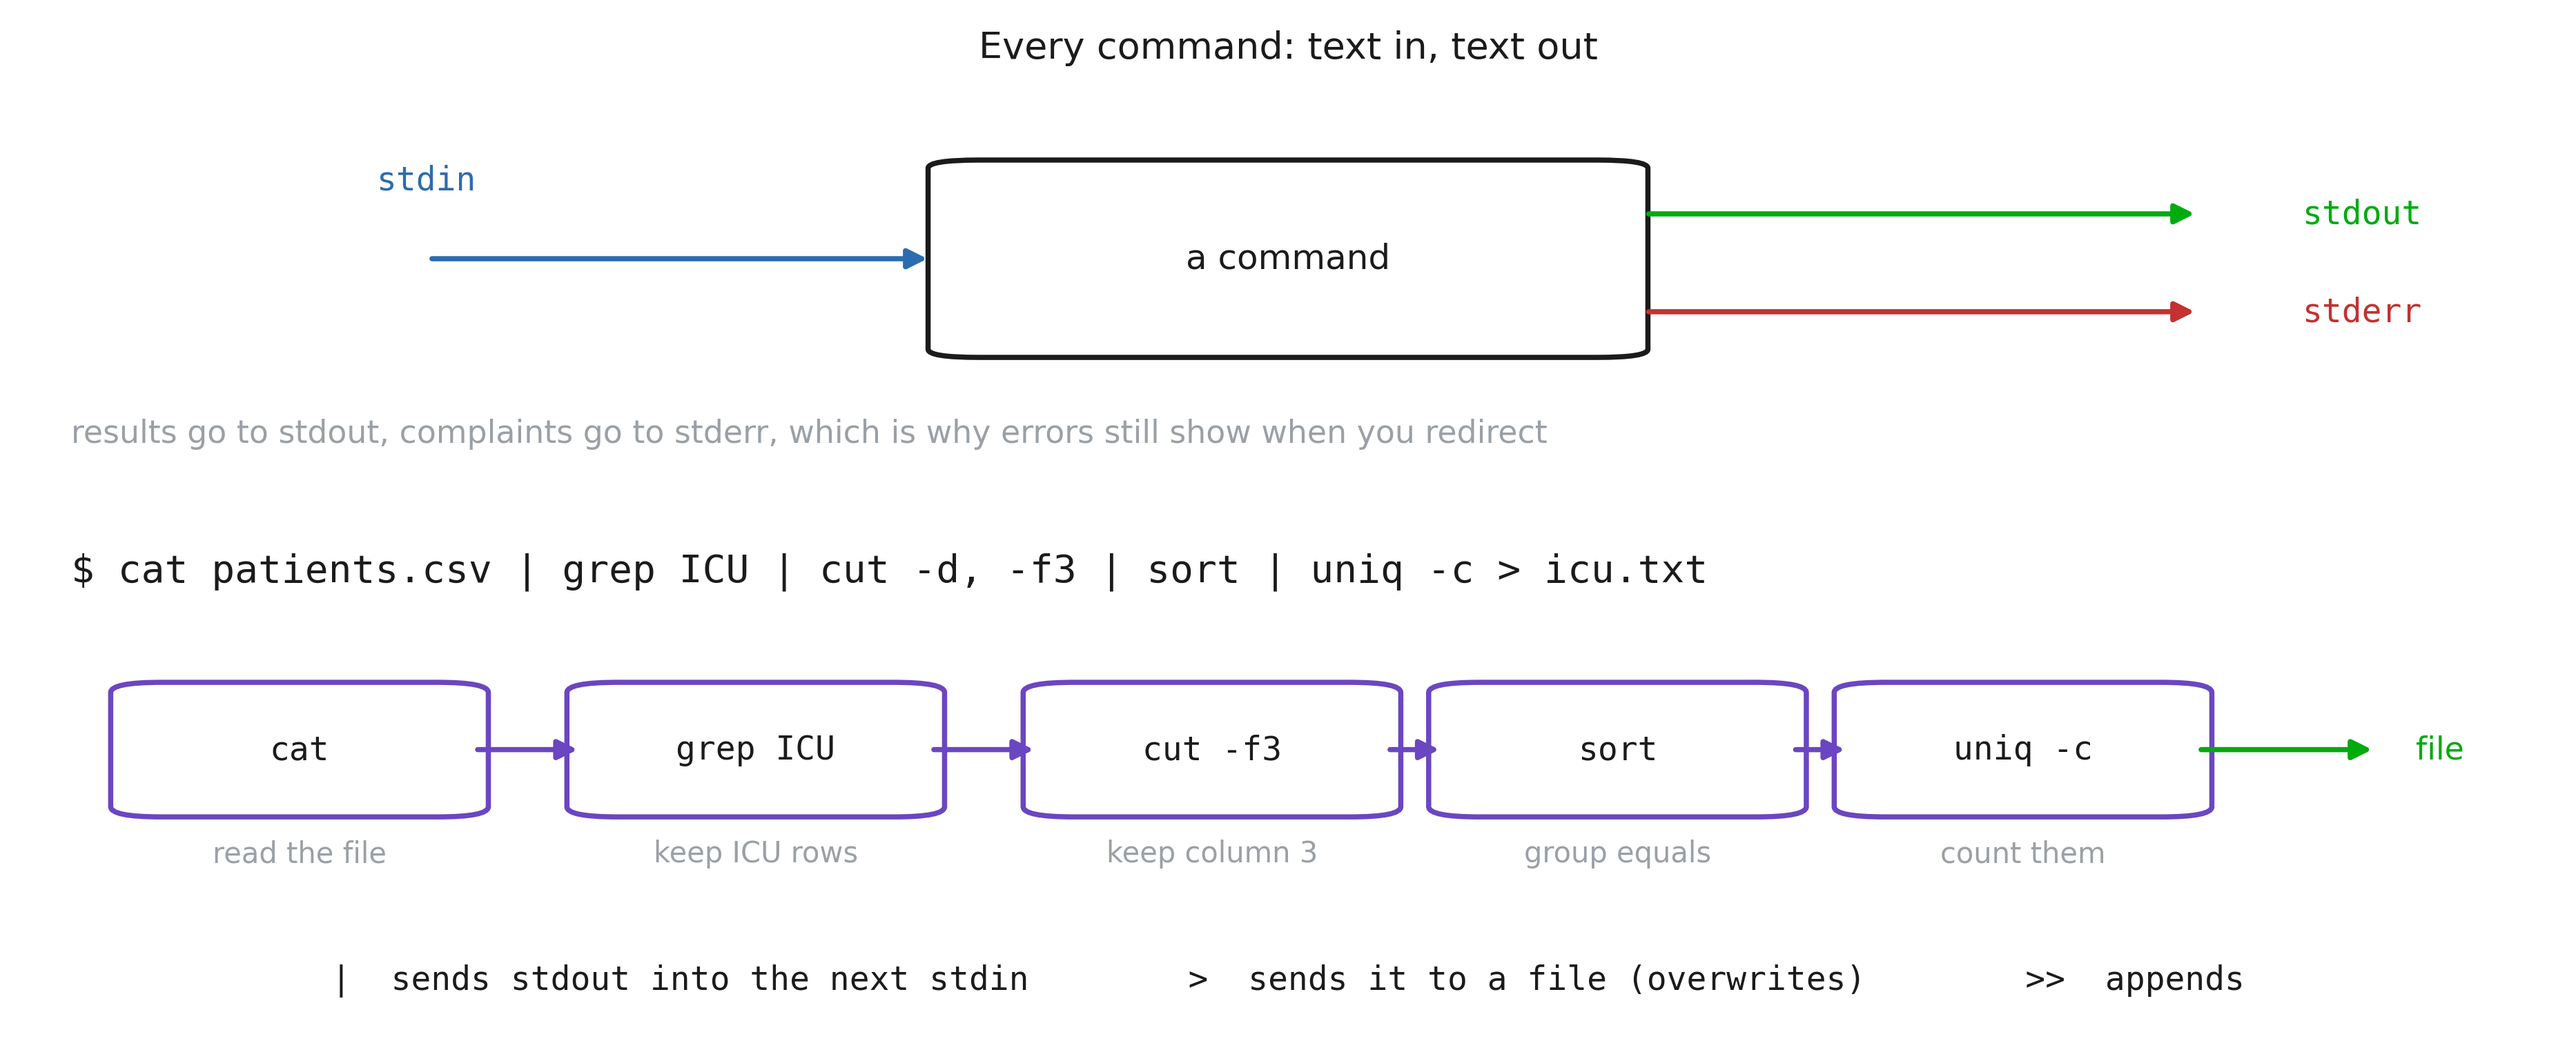
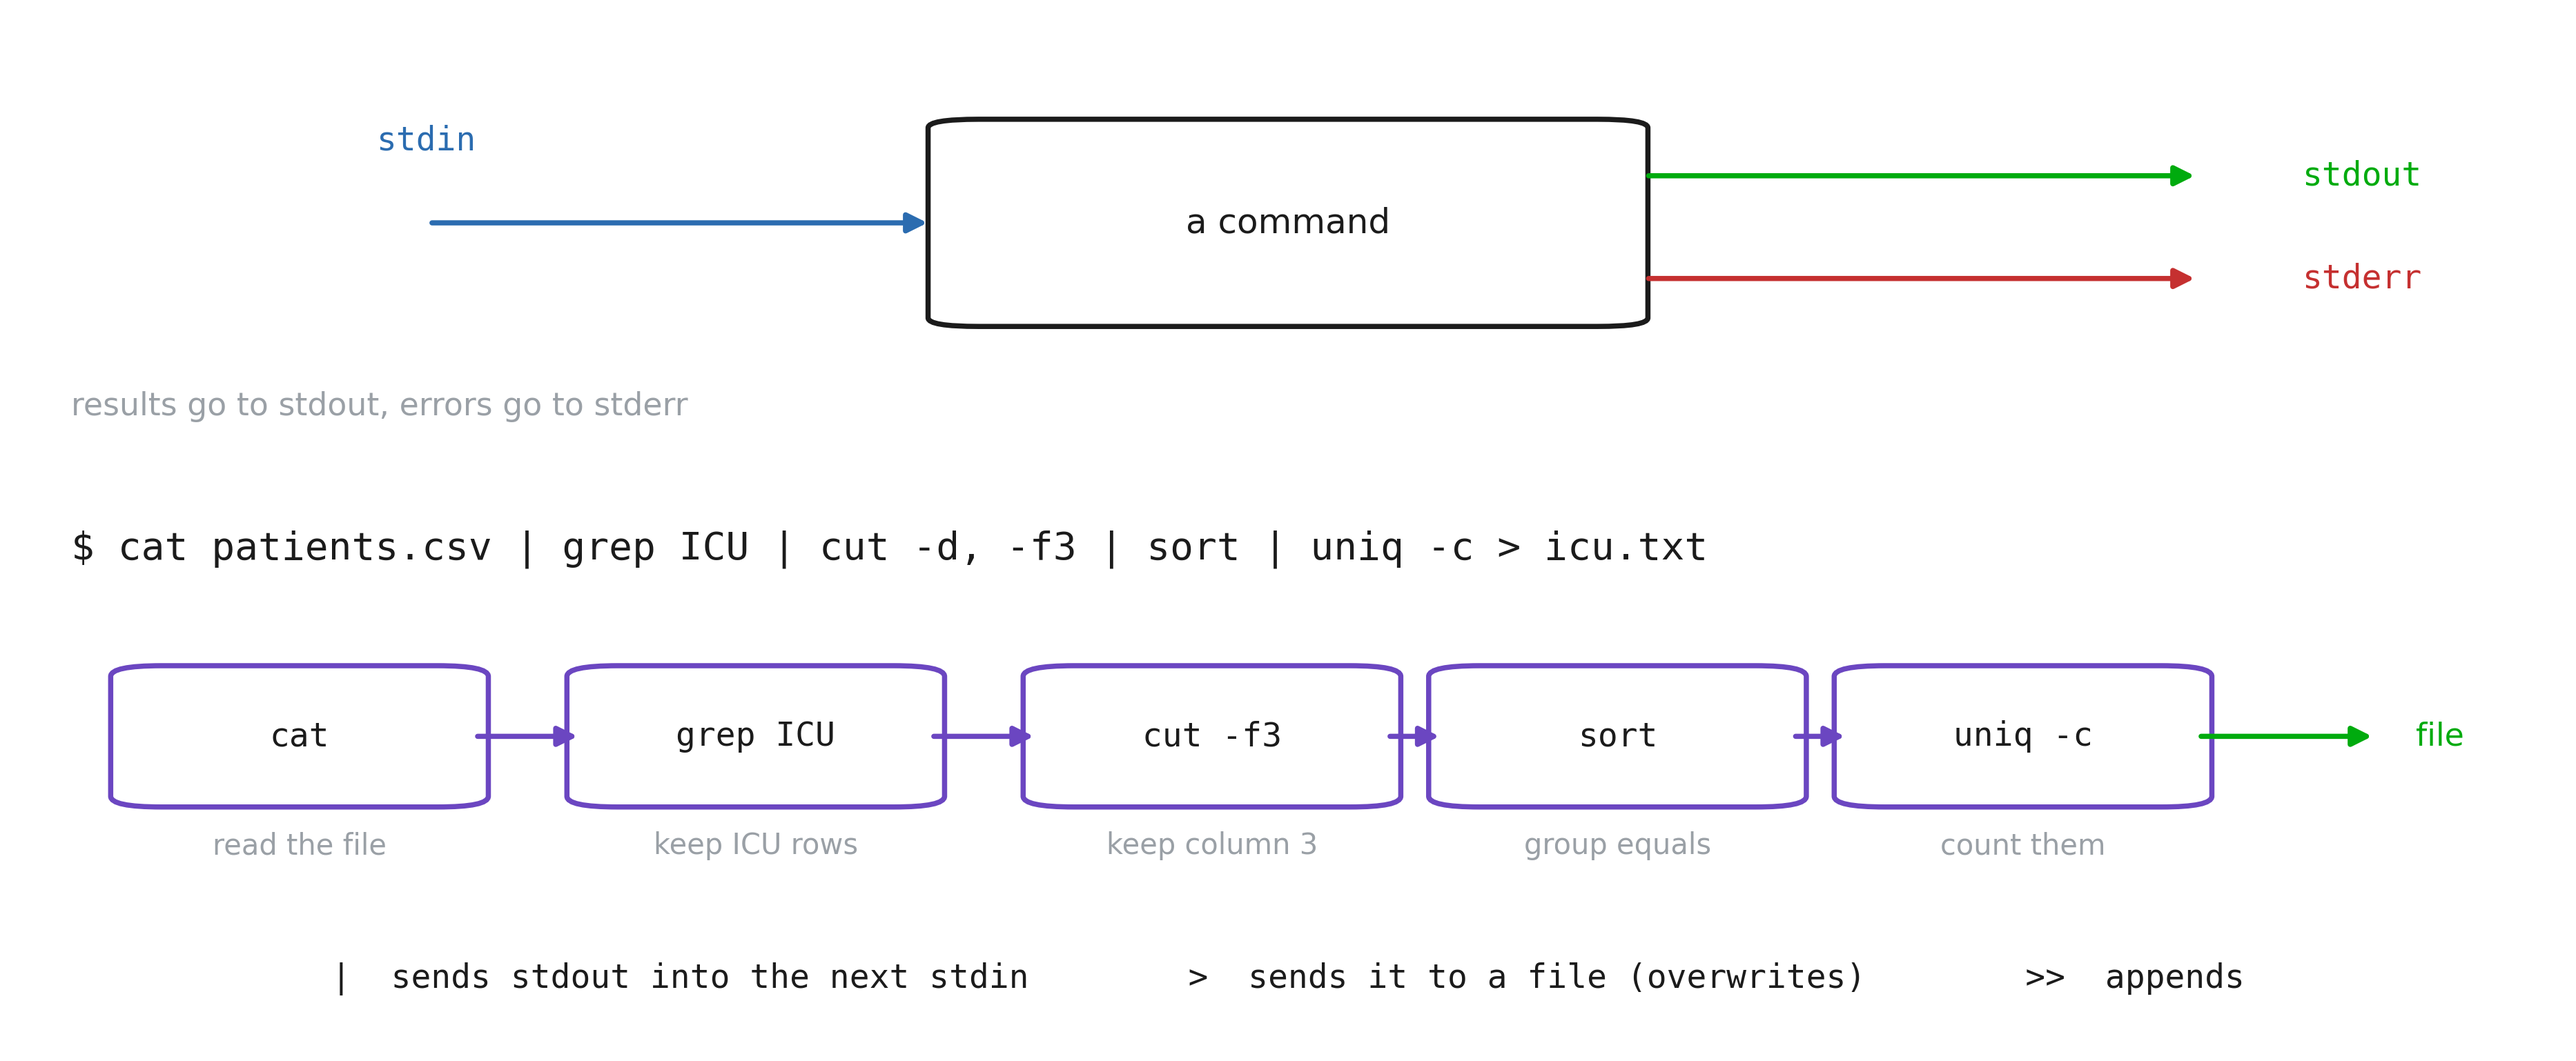
updated session 01 figures

diff --git a/scripts/make_figures_c01.py b/scripts/make_figures_c01.py
@@ -13,125 +13,27 @@ from __future__ import annotations
 import sys
 from pathlib import Path
 
-import matplotlib
+from matplotlib.patches import FancyBboxPatch
 
-matplotlib.use("Agg")
-
-import matplotlib.pyplot as plt
-from matplotlib.patches import FancyArrowPatch, FancyBboxPatch
-
-INK = "#1b1b1b"
-GREY = "#9aa0a6"
-BLUE = "#2b6cb0"
-RED = "#c53030"
-GREEN = "#00ab0e"
-AMBER = "#b7791f"
-PURPLE = "#6b46c1"
-FAINT = "#e8eaed"
-MONO = "DejaVu Sans Mono"
-
-plt.rcParams.update(
-    {
-        "figure.dpi": 160,
-        "savefig.dpi": 300,
-        "font.size": 12,
-        "axes.titlesize": 13,
-        "axes.labelsize": 11,
-        "axes.edgecolor": GREY,
-        "axes.labelcolor": INK,
-        "text.color": INK,
-        "xtick.color": INK,
-        "ytick.color": INK,
-        "axes.spines.top": False,
-        "axes.spines.right": False,
-        "figure.facecolor": "white",
-        "savefig.bbox": "tight",
-        # this deck has no equations, but plenty of "$" prompts and "$f" variables
-        "text.parse_math": False,
-    }
+from slidefig import (
+    AMBER,
+    BLUE,
+    FAINT,
+    GREEN,
+    GREY,
+    INK,
+    MONO,
+    PURPLE,
+    RED,
+    SLIDE_ASPECT,
+    WIDE,
+    arrow,
+    blank,
+    box,
+    plt,
+    save,
+    terminal,
 )
-
-# the .pptx content placeholder is 9.00in x 3.71in; pad every saved figure up to
-# that aspect so pandoc does not shrink it and leave the slide two-thirds empty
-SLIDE_ASPECT = 9.00 / 3.71
-WIDE = (12.6, 12.6 / SLIDE_ASPECT)
-
-
-def pad_to_aspect(path: Path, aspect: float = SLIDE_ASPECT) -> None:
-    """Pad a saved figure with white so it exactly fills the slide placeholder."""
-    from PIL import Image
-
-    im = Image.open(path).convert("RGB")
-    w, h = im.size
-    if w / h < aspect:
-        tw, th = int(round(h * aspect)), h
-    else:
-        tw, th = w, int(round(w / aspect))
-    if (tw, th) == (w, h):
-        return
-    canvas = Image.new("RGB", (tw, th), "white")
-    canvas.paste(im, ((tw - w) // 2, (th - h) // 2))
-    canvas.save(path)
-
-
-def save(fig, out: Path, name: str) -> None:
-    path = out / f"{name}.png"
-    fig.savefig(path)
-    plt.close(fig)
-    pad_to_aspect(path)
-
-
-def blank(ax, xlim=(0, 1), ylim=(0, 1)):
-    ax.set_xlim(*xlim)
-    ax.set_ylim(*ylim)
-    ax.set_xticks([])
-    ax.set_yticks([])
-    for s in ax.spines.values():
-        s.set_visible(False)
-
-
-def box(ax, xy, w, h, text, fc="white", ec=BLUE, fs=11, lw=1.8, tc=INK, mono=False):
-    """A rounded label box, used by the flow diagrams."""
-    ax.add_patch(
-        FancyBboxPatch(
-            (xy[0] - w / 2, xy[1] - h / 2),
-            w,
-            h,
-            boxstyle="round,pad=0.012,rounding_size=0.02",
-            facecolor=fc,
-            edgecolor=ec,
-            linewidth=lw,
-        )
-    )
-    ax.text(
-        xy[0], xy[1], text, ha="center", va="center", fontsize=fs, color=tc,
-        family=(MONO if mono else None),
-    )
-
-
-def arrow(ax, a, b, color=GREY, lw=1.8, style="-|>", ls="-"):
-    ax.add_patch(
-        FancyArrowPatch(
-            a, b, arrowstyle=style, mutation_scale=14, color=color, lw=lw,
-            linestyle=ls, shrinkA=2, shrinkB=2,
-        )
-    )
-
-
-def terminal(ax, xy, w, h, lines, title="Terminal", ec=INK):
-    """A little mock terminal window: dark title bar, monospace body."""
-    x, y = xy[0] - w / 2, xy[1] - h / 2
-    ax.add_patch(FancyBboxPatch((x, y), w, h,
-                                boxstyle="round,pad=0.004,rounding_size=0.015",
-                                facecolor="#fbfbfb", edgecolor=ec, linewidth=1.6))
-    ax.add_patch(FancyBboxPatch((x, y + h - 0.075), w, 0.075,
-                                boxstyle="square,pad=0",
-                                facecolor="#33373d", edgecolor="none"))
-    ax.text(x + 0.018, y + h - 0.037, title, ha="left", va="center",
-            fontsize=9, color="white")
-    for i, (txt, colour) in enumerate(lines):
-        ax.text(x + 0.018, y + h - 0.135 - i * 0.058, txt, ha="left", va="center",
-                fontsize=10.5, family=MONO, color=colour)
 
 
 # ============================================================ 1. why the shell
@@ -296,7 +198,6 @@ def fig_pipeline(out: Path) -> None:
 
     ax = axes[0]
     blank(ax)
-    ax.set_title("Every command: text in, text out", fontsize=13)
     box(ax, (0.5, 0.55), 0.26, 0.46, "a command", ec=INK, fs=12)
     arrow(ax, (0.16, 0.55), (0.36, 0.55), color=BLUE)
     ax.text(0.16, 0.72, "stdin", ha="center", fontsize=11.5, family=MONO, color=BLUE)
@@ -306,8 +207,7 @@ def fig_pipeline(out: Path) -> None:
     arrow(ax, (0.64, 0.42), (0.86, 0.42), color=RED)
     ax.text(0.90, 0.42, "stderr", ha="left", va="center", fontsize=11.5,
             family=MONO, color=RED)
-    ax.text(0.02, 0.10, "results go to stdout, complaints go to stderr, "
-            "which is why errors still show when you redirect",
+    ax.text(0.02, 0.10, "results go to stdout, errors go to stderr",
             fontsize=11, color=GREY, ha="left")
 
     ax = axes[1]
